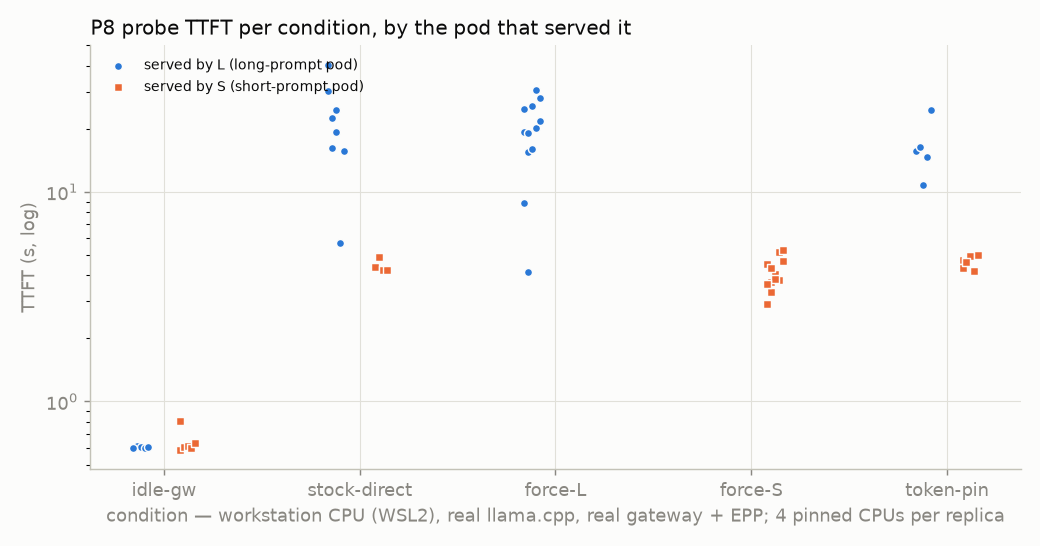
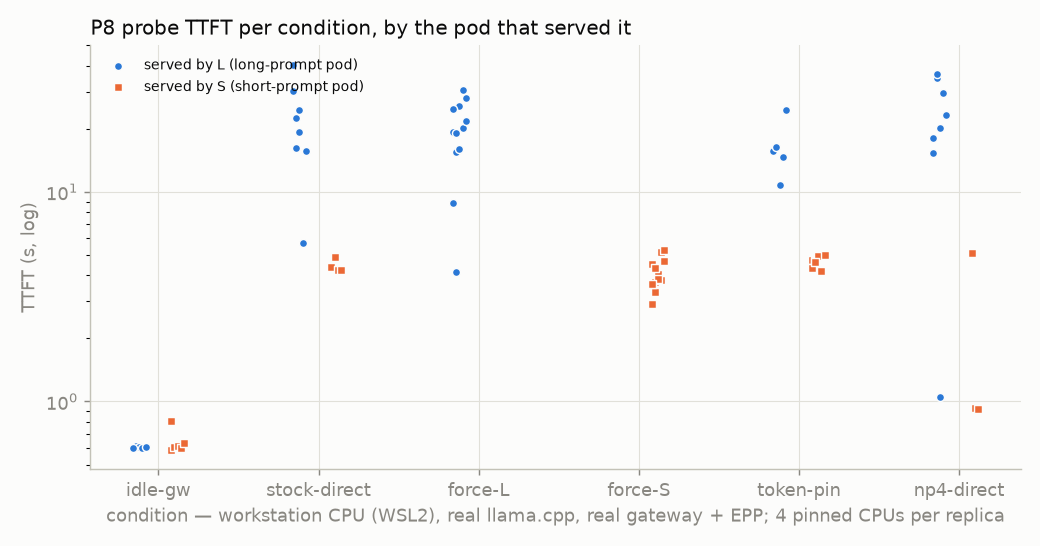
P8 on CPU: results write-up (interference, comparison, does-not-show, revert), charts, RESULTS rows, GAPS P8, scripts README

diff --git a/benchmarks/results/probes/p8_cpu_pinned.md b/benchmarks/results/probes/p8_cpu_pinned.md
@@ -8,7 +8,20 @@ ones (S), which pod does the stock EPP pick for a short probe, and what does the
 token-load-scorer. And how much do two replicas on one CPU slow each other down, unpinned vs pinned by the kubelet
 static CPU manager?
 
-Status: in progress. Sections are filled in the order they were run; every prediction was written before its run.
+Status: done 2026-10-23 (09:36–11:17 EDT); cluster reverted to policy `none` (see [Revert](#revert)). Sections are in
+run order; every prediction was written into this file before its run and is left as written.
+
+**Headlines**
+- **Stock EPP, real engines:** 8 of 12 probes went to the long-prompt replica (TTFT p50 20.9 s there vs 4.3 s on the
+  short-prompt replica). All 5 probes that saw S's deferred request went to L; the 7 where llama.cpp's queue gauge
+  showed no deferred request were random tie-breaks (3 L / 4 S). Forced, the L pick costs +15.85 s TTFT p50
+  (19.80 vs 3.94 s).
+- **token-load-scorer on:** 5 / 12 to L. It breaks every tie toward S (7 / 7), but loses to the queue scorer whenever
+  S's deferred request is visible (5 / 5 to L), because it counts a 3,056-token prompt as 960 tokens (bytes/4,
+  rounded to 64).
+- **Pinning did not remove the replica-to-replica slowdown:** a probe on an idle replica pays +36 % / +48 % TTFT p50
+  when the other replica is busy unpinned, and +44 % / +49 % pinned to disjoint full cores. What remains (L3, memory
+  bandwidth, WSL2 vCPU placement, turbo) could not be separated here.
 
 ## Task 0 — baseline and topology (2026-10-23, no changes)
 
@@ -276,3 +289,79 @@ max-score picker's random tie-break, not a preference. Gateway log = EPP log 12 
 a free slot on L did not make the probe fast. 8 of the 9 probes on L had TTFT 15.3–36.5 s, and one had 1.05 s.
 Decode on L p50 was 8.9 tok/s. So in b11146 the probe's prompt waited behind the long prefills, not only behind slots.
 This is measured, but the scheduling mechanism inside llama.cpp was not checked. Host busy 8.78 CPUs; `nr_throttled` delta 0.
+
+## Interference: unpinned vs pinned
+
+Direct to pod, not routed through the EPP. Probe TTFT p50 (s), n = 12 each; p50 / p95 linear interpolation
+(`benchmarks/analyze.py --p8cpu` → [p8_cpu/summary.md](p8_cpu/summary.md)).
+
+| probe on | alone, unpinned | neighbour busy, unpinned | penalty | alone, pinned | neighbour busy, pinned | penalty |
+|---|---|---|---|---|---|---|
+| S (neighbour: 2 long prompts) | 0.592 | 0.808 | +0.216 s (+36 %) | 0.602 | 0.869 | +0.267 s (+44 %) |
+| L (neighbour: 3 short prompts) | 0.587 | 0.871 | +0.284 s (+48 %) | 0.600 | 0.894 | +0.294 s (+49 %) |
+| decode p50, S / L probe (tok/s) | 56.4 / 57.3 | 49.9 / 46.9 | | 55.2 / 55.2 | 48.6 / 48.1 | |
+
+![interference](p8_cpu/charts/p8cpu_interference.png)
+
+**How much pinning removed: none measurable.** Neither p50 penalty shrank. Pinned p95/max are tighter on the alone
+rows (L alone max 0.623 s vs 0.777 s unpinned), but at n = 12 that is one probe. What can and can't be separated here:
+- *Same logical CPU / SMT sibling sharing between the two pods:* removed by pinning (disjoint full cores, verified), so
+  it was not the cause.
+- *CFS throttling:* ruled out (no quota on the pinned pods, `nr_throttled` 0 throughout).
+- *Shared pool saturation:* ruled out for the routed path (gateway + EPP ≤ 0.07 CPU; host busy ≤ 8.8 of 16).
+- *Shared L3, memory bandwidth, package power / turbo frequency, Hyper-V placement of the guest vCPUs:* **not
+  separable on this setup.** The guest can't read MSRs or host scheduling, and WSL2's sibling pairs are not a hardware
+  guarantee. k3s-server and containerd were not restricted to the shared pool (0-15).
+
+## P8 summary (Build 4 format) and comparison
+
+| condition | label | n | picks long-pod / short-pod | probe TTFT p50 / max (s) | TTFT p50 on long / short pod (s) | e2e p50 (s) |
+|---|---|---|---|---|---|---|
+| idle | CPU pinned, routed | 12 | 6 / 6 | 0.606 / 0.808 | 0.604 / 0.609 | 1.18 |
+| stock / load direct | CPU pinned, routed | 12 | **8 / 4** | 15.903 / 40.480 | 20.921 / 4.330 | 29.55 |
+| stock, forced to long pod | CPU pinned, direct to pod | 12 | 12 / 0 | 19.795 / 30.527 | 19.795 / — | 33.65 |
+| stock, forced to short pod | CPU pinned, direct to pod | 12 | 0 / 12 | 3.944 / 5.284 | — / 3.944 | 6.00 |
+| token-load / load via gateway (pinned per pod) | CPU pinned, routed | 12 | **5 / 7** | 4.967 / 24.547 | 15.658 / 4.683 | 7.26 |
+| parallel 4, stock / load direct | CPU pinned, routed | 12 | 9 / 3 (all ties) | 19.126 / 36.458 | 23.280 / 0.933 | 31.81 |
+
+![P8 TTFT](p8_cpu/charts/p8cpu_ttft.png)
+
+| source | label | stock: picks to long pod | token-load: picks to long pod | cost of the long pick (TTFT p50) |
+|---|---|---|---|---|
+| Build 4 (`deploy/gateway/GAPS.md` P8) | SIMULATED, routed by the real EPP | 16 / 16 (direct 8 / 8, pin 8 / 8) | 0 / 8 (load via gateway), 8 / 8 (load direct) | 7.75 s vs 0.53 s |
+| Build 11, mns2 ([t4/p8_t4x2.md](../t4/p8_t4x2.md)) | Kaggle 2×T4, real vLLM; picks **computed offline**, routing not exercised | 21 / 24 | 23 / 24 | see that file |
+| this run | workstation CPU (WSL2), real llama.cpp, **real gateway + EPP**; 4 pinned CPUs per replica | **8 / 12** | **5 / 12** | 20.92 s vs 4.33 s (as picked); 19.80 s vs 3.94 s (forced) |
+
+Why this run differs from both: the sim's and vLLM's waiting gauge held S's queued request steadily. llama.cpp's
+`requests_deferred` showed it at only 5 of 12 decisions, so the queue scorer often tied. When it didn't tie, the stock
+EPP and the token-load EPP both picked L every time (10 / 10 across conditions 2 and 4).
+
+## Does NOT show
+
+- One node, one WSL2 guest: guest vCPUs are not pinned to host cores; "pinned" = guest vCPUs only.
+- Qwen2.5-0.5B Q4_K_M on 4 CPUs per replica, b11146: absolute TTFTs (0.6 s idle, ~20 s behind long prompts) are this
+  model on this CPU. They are not GPU numbers and not big-model numbers.
+- llama.cpp exports no KV signal: the kv scorer tied in every decision (GAPS.md P4). A KV-aware engine could change
+  stock picks.
+- `requests_deferred` sampling: how often the EPP sees S's deferred request depends on its scrape timing and on llama.cpp
+  updating the gauge between batches. The 5 / 12 split is this workload's, not a constant.
+- Single EPP replica: the token-load scorer counts only what this replica dispatched (GAPS.md P8 "remaining gap");
+  with load sent direct it would see nothing.
+- Single client process (asyncio, one host): background and probes share one event loop; probes are sequential.
+- n = 12 per condition, 2 blocks with roles swapped; no confidence intervals computed.
+- The parallel-4 split (9 / 3) is a random tie-break at n = 12, not a preference.
+
+## Revert
+
+`make cpu-pin-off` (run by the user, sudo, ~11:15 EDT) restored `/etc/rancher/k3s/config.yaml` (sha256 `3609cf7f…`,
+= the original) and removed the static `cpu_manager_state`. Read back at 11:16–11:17:
+- configz `cpuManagerPolicy: none`, options none, reserved none; journal `cpu_manager.go:235 "Starting" policy="none"`
+  11:15:59; allocatable CPU 16.
+- `deploy/release.sh upgrade k3s` with no overlays (revision 39): pods back to the original template (hash
+  `5d577dcf66`), Burstable, `Cpus_allowed_list` 0-15. Release values = the pre-run backup except the new chart key
+  `llamacpp.initResources: {}` (default, renders nothing).
+- `paused-replicas` annotation removed from `inf-llamacpp` (KEDA owns replicas again; it was not paused before).
+  `inf-vllm-sim` still paused at 2, as before. Sim pods were never scaled.
+- sim-pool and llamacpp-pool EPPs: ConfigMap data, helm values and container args **byte-identical** to the backups
+  in `p8_cpu/backup/` (sim-pool still on `token-load.yaml`, as found).
+- `helm test inf` 3/3 Succeeded; one request per pool: cpu 200 (0.173 s), sim 200 (0.064 s).

diff --git a/deploy/gateway/GAPS.md b/deploy/gateway/GAPS.md
@@ -16,7 +16,7 @@ does and does not do, tested on the k3s lab (single node `ravi-home`, ns `infere
 | P5 | Pool choice by prompt size / SLO | header only | design below |
 | P6 | Admission / scale-from-zero | default: engine queues, gateway doesn't. EPP flow control (experimental) holds requests at 0 replicas and exports a queue KEDA can activate on; agentgateway cuts a held request at 10 s | works on a scratch pool, [autoscaling](../../autoscaling/README.md#scale-from-zero-gapsmd-p6) |
 | P7 | Gateway pod killed mid-stream | graceful delete drains the stream; hard kill cuts it, slot freed ~2.5 s. 1 replica: ~1 s of refused connections; **2 replicas + PDB: 0 failed new requests**, the killed pod's stream is still lost | 2 replicas in chart; node is still a SPOF |
-| P8 | Size-blind routing (few long vs many short prompts) | **stock EPP picks the long-prompt pod 16/16 (TTFT p50 7.75 s vs 0.53 s on the other pod)**; upstream `token-load-scorer` fixes it when the EPP dispatched the load (8/8 short pod, 0.56 s); blind to load it didn't dispatch (SIMULATED) | [ADR 0003](../../docs/adr/0003-token-aware-scorer.md) |
+| P8 | Size-blind routing (few long vs many short prompts) | **stock EPP picks the long-prompt pod 16/16 (TTFT p50 7.75 s vs 0.53 s on the other pod)**; upstream `token-load-scorer` fixes it when the EPP dispatched the load (8/8 short pod, 0.56 s); blind to load it didn't dispatch (SIMULATED). **Real llama.cpp behind the real gateway + EPP: stock 8 / 12 to the long-prompt pod (20.9 s vs 4.3 s TTFT p50), token-load 5 / 12: bytes/4 counts a 3,056-token prompt as 960** | [ADR 0003](../../docs/adr/0003-token-aware-scorer.md), [p8_cpu_pinned.md](../../benchmarks/results/probes/p8_cpu_pinned.md) |
 | P9 | Burst inside one EPP metrics refresh | no 8/0 herding; per-run split up to 7/1 vs always 4/4 when spaced (sim-pool, SIMULATED) | see P9 |
 
 ---
@@ -276,9 +276,18 @@ With threshold 8192 and weight 4 the token scores were 0 (long pod) vs 0.890625 
 
 **Remaining gap.** The scorer counts only what this EPP replica dispatched: load sent directly to pods, by other EPP replicas or after an EPP
 restart is invisible (`token-load / direct` is unchanged, as predicted). Token counts are bytes/4 estimates (about +20% on the probe prompts). Leaked entries (client gone before first token) live ≤5 min.
-llamacpp-pool is untouched. No real engine tested: the llama.cpp / T4 behaviour is unproven.
+llamacpp-pool is untouched by default (`make epp-cpu-token-on` / `-off` switch it for experiments). Real engines: see below.
 
 **Real engines (Kaggle 2×T4, real engines; routing not exercised):** [benchmarks/results/t4/p8_t4x2.md](../../benchmarks/results/t4/p8_t4x2.md), run 2. With vLLM defaults nothing queues, and the stock profile (computed offline from real gauges) leans to the short-prompt replica (24 / 24, kv scorer only, margin 0.06). A probe forced onto the long-prompt replica pays +2.17 s median TTFT (CI 0.38–4.05). With `--max-num-seqs 2` (the sim's slots) the stock profile picks the long-prompt replica 21 / 24, and the token-load scorer (bytes/4 estimate) still picks it 23 / 24.
+
+**Real llama.cpp behind the real gateway + EPP (workstation CPU, WSL2; 2 × b11146, 4 pinned CPUs each, 2 slots):**
+[benchmarks/results/probes/p8_cpu_pinned.md](../../benchmarks/results/probes/p8_cpu_pinned.md) (2026-10-23). Stock profile: **8 / 12** probes
+to the long-prompt pod, TTFT p50 20.9 s there vs 4.3 s on the short-prompt pod (forced: 19.8 vs 3.9 s). The 5 decisions where
+S's deferred request was visible all went to L. In the other 7, llama.cpp's `requests_deferred` read 0, so the queue scorer tied and the
+picker chose at random. With token-load-scorer on and load through the gateway: **5 / 12** to L. It wins every tie for S (7 / 7)
+but still loses to the queue scorer when S's queue is visible (5 / 5 to L): the producer's estimate is 960 tokens for a 3,056-token
+prompt (bytes/4, logged `tokenLoad`), so L's two long prompts weigh 1,920 instead of ~6,100. Fix direction: a real token count
+(tokenizer-backed estimate) for llama.cpp pools; a calibrated bytes-per-token factor would do for a single model. Not built here.
 
 **Overhead (SIMULATED, n=100 sequential, `scripts/probe_epp_overhead.py`).** Client p50 35.5 ms off / 39.2 ms on (stdev ~13 ms: within noise); EPP
 `scheduler_e2e_duration` mean 0.032 ms off / 0.112 ms on. **Regression:** `probe_p1_saturation.py` with the plugin on: 20/20 to the idle pod.

diff --git a/RESULTS.md b/RESULTS.md
@@ -75,6 +75,10 @@ Appended to RESULTS.md by `benchmarks/analyze.py` (links are relative to the rep
 | gateway | P7 gateway pod hard-killed, 2 replicas + PDB | 0 failed new requests; the killed pod's in-flight stream is lost; replacement Ready 2.8–3.8 s | workstation CPU | [GAPS.md P7](deploy/gateway/GAPS.md) |
 | gateway | P8 size-blind routing: few long vs many short prompts, stock EPP | 8 / 8 probes to the long-prompt pod, TTFT p50 7.75 s (predicted ~7.7 s) vs 0.53 s on the other pod | SIMULATED | [GAPS.md P8](deploy/gateway/GAPS.md#p8--is-the-epp-size-blind) |
 | gateway | P8 with upstream `token-load-scorer` tuned (threshold 8192, weight 4) | 0 / 8 to the long-prompt pod, TTFT p50 0.56 s; P1 still 20 / 20; scheduler 0.032 → 0.112 ms, client p50 change within noise | SIMULATED | [GAPS.md P8](deploy/gateway/GAPS.md#p8--is-the-epp-size-blind), [ADR 0003](docs/adr/0003-token-aware-scorer.md) |
+| gateway | P8 on real llama.cpp, stock EPP (2 × b11146, 2 slots each, L = 2 long / S = 3 short) | 8 / 12 probes to the long-prompt replica, TTFT p50 20.92 s there vs 4.33 s on the other; all 5 decisions that saw S's deferred request went to L, the other 7 were queue ties ([raw](benchmarks/results/probes/p8_cpu/20261023-142326-stock-direct.jsonl)) | workstation CPU, real gateway + EPP | [p8_cpu_pinned.md](benchmarks/results/probes/p8_cpu_pinned.md) |
+| gateway | P8 on real llama.cpp, cost of the long-replica pick (probe forced, direct to pod) | TTFT p50 19.80 s on L vs 3.94 s on S (+15.85 s), n = 12 each ([L](benchmarks/results/probes/p8_cpu/20261023-143413-force-L.jsonl), [S](benchmarks/results/probes/p8_cpu/20261023-144651-force-S.jsonl)) | workstation CPU, direct to pod | [p8_cpu_pinned.md](benchmarks/results/probes/p8_cpu_pinned.md) |
+| gateway | P8 on real llama.cpp, upstream `token-load-scorer` on (threshold 8192, weight 4), load via the gateway | 5 / 12 to the long-prompt replica: ties broken to S 7 / 7, but queue-split decisions still L 5 / 5; the scorer counts a 3,056-token prompt as 960 ([raw](benchmarks/results/probes/p8_cpu/20261023-145402-token-pin.jsonl)) | workstation CPU, real gateway + EPP | [p8_cpu_pinned.md](benchmarks/results/probes/p8_cpu_pinned.md) |
+| node | Replica-to-replica slowdown on one CPU, unpinned vs kubelet static CPU manager (4 exclusive CPUs = 2 full cores per pod) | probe TTFT p50 with the other replica busy: +36 % / +48 % unpinned, +44 % / +49 % pinned: pinning removed none of it; no CFS quota on the pinned pods ([unpinned](benchmarks/results/probes/p8_cpu/20261023-134954-u-S-Lbusy.jsonl), [pinned](benchmarks/results/probes/p8_cpu/20261023-141159-p-S-Lbusy.jsonl)) | workstation CPU (WSL2), direct to pod | [p8_cpu_pinned.md](benchmarks/results/probes/p8_cpu_pinned.md) |
 | gateway | Gateway vs direct capacity ramp, quiet host, 3 runs per setting (2 sim pods, max-num-seqs 256) | ≤ 16 concurrent: gateway −2.7 to −4.7 % rps, p50 +4–11 ms, plugin on/off within spread, 0 errors; above 16 **not quotable: client-bound** (load generator at 0.97–1.00 core from 64) | SIMULATED | [GAPS.md capacity](deploy/gateway/GAPS.md#disconnect-and-capacity-follow-ups-2026-10-15) |
 | gateway | P9 burst of 8 inside one 50 ms EPP refresh | never 8 / 0; splits 4/4 … 7/1 (random tie-break); spaced control 4/4 every run | SIMULATED | [GAPS.md P9](deploy/gateway/GAPS.md#p9--burst-inside-one-epp-metrics-refresh) |
 | autoscaling | KEDA on queue depth, sim-pool, one cycle | 1 → 3 → 4 → 1 replicas; 1144 / 1144 ok; client TTFT p50 2,710 ms (1 replica) → 81–93 ms (4) | SIMULATED, n = 1 | [autoscaling/](autoscaling/README.md#one-full-cycle-per-pool-loadgenpy) |

diff --git a/benchmarks/results/lab_headlines.md b/benchmarks/results/lab_headlines.md
@@ -17,6 +17,10 @@ Appended to RESULTS.md by `benchmarks/analyze.py` (links are relative to the rep
 | gateway | P7 gateway pod hard-killed, 2 replicas + PDB | 0 failed new requests; the killed pod's in-flight stream is lost; replacement Ready 2.8–3.8 s | workstation CPU | [GAPS.md P7](deploy/gateway/GAPS.md) |
 | gateway | P8 size-blind routing: few long vs many short prompts, stock EPP | 8 / 8 probes to the long-prompt pod, TTFT p50 7.75 s (predicted ~7.7 s) vs 0.53 s on the other pod | SIMULATED | [GAPS.md P8](deploy/gateway/GAPS.md#p8--is-the-epp-size-blind) |
 | gateway | P8 with upstream `token-load-scorer` tuned (threshold 8192, weight 4) | 0 / 8 to the long-prompt pod, TTFT p50 0.56 s; P1 still 20 / 20; scheduler 0.032 → 0.112 ms, client p50 change within noise | SIMULATED | [GAPS.md P8](deploy/gateway/GAPS.md#p8--is-the-epp-size-blind), [ADR 0003](docs/adr/0003-token-aware-scorer.md) |
+| gateway | P8 on real llama.cpp, stock EPP (2 × b11146, 2 slots each, L = 2 long / S = 3 short) | 8 / 12 probes to the long-prompt replica, TTFT p50 20.92 s there vs 4.33 s on the other; all 5 decisions that saw S's deferred request went to L, the other 7 were queue ties ([raw](benchmarks/results/probes/p8_cpu/20261023-142326-stock-direct.jsonl)) | workstation CPU, real gateway + EPP | [p8_cpu_pinned.md](benchmarks/results/probes/p8_cpu_pinned.md) |
+| gateway | P8 on real llama.cpp, cost of the long-replica pick (probe forced, direct to pod) | TTFT p50 19.80 s on L vs 3.94 s on S (+15.85 s), n = 12 each ([L](benchmarks/results/probes/p8_cpu/20261023-143413-force-L.jsonl), [S](benchmarks/results/probes/p8_cpu/20261023-144651-force-S.jsonl)) | workstation CPU, direct to pod | [p8_cpu_pinned.md](benchmarks/results/probes/p8_cpu_pinned.md) |
+| gateway | P8 on real llama.cpp, upstream `token-load-scorer` on (threshold 8192, weight 4), load via the gateway | 5 / 12 to the long-prompt replica: ties broken to S 7 / 7, but queue-split decisions still L 5 / 5; the scorer counts a 3,056-token prompt as 960 ([raw](benchmarks/results/probes/p8_cpu/20261023-145402-token-pin.jsonl)) | workstation CPU, real gateway + EPP | [p8_cpu_pinned.md](benchmarks/results/probes/p8_cpu_pinned.md) |
+| node | Replica-to-replica slowdown on one CPU, unpinned vs kubelet static CPU manager (4 exclusive CPUs = 2 full cores per pod) | probe TTFT p50 with the other replica busy: +36 % / +48 % unpinned, +44 % / +49 % pinned: pinning removed none of it; no CFS quota on the pinned pods ([unpinned](benchmarks/results/probes/p8_cpu/20261023-134954-u-S-Lbusy.jsonl), [pinned](benchmarks/results/probes/p8_cpu/20261023-141159-p-S-Lbusy.jsonl)) | workstation CPU (WSL2), direct to pod | [p8_cpu_pinned.md](benchmarks/results/probes/p8_cpu_pinned.md) |
 | gateway | Gateway vs direct capacity ramp, quiet host, 3 runs per setting (2 sim pods, max-num-seqs 256) | ≤ 16 concurrent: gateway −2.7 to −4.7 % rps, p50 +4–11 ms, plugin on/off within spread, 0 errors; above 16 **not quotable: client-bound** (load generator at 0.97–1.00 core from 64) | SIMULATED | [GAPS.md capacity](deploy/gateway/GAPS.md#disconnect-and-capacity-follow-ups-2026-10-15) |
 | gateway | P9 burst of 8 inside one 50 ms EPP refresh | never 8 / 0; splits 4/4 … 7/1 (random tie-break); spaced control 4/4 every run | SIMULATED | [GAPS.md P9](deploy/gateway/GAPS.md#p9--burst-inside-one-epp-metrics-refresh) |
 | autoscaling | KEDA on queue depth, sim-pool, one cycle | 1 → 3 → 4 → 1 replicas; 1144 / 1144 ok; client TTFT p50 2,710 ms (1 replica) → 81–93 ms (4) | SIMULATED, n = 1 | [autoscaling/](autoscaling/README.md#one-full-cycle-per-pool-loadgenpy) |

diff --git a/scripts/README.md b/scripts/README.md
@@ -19,6 +19,7 @@ and gateway/EPP probes (findings in [`deploy/gateway/GAPS.md`](../deploy/gateway
 | `probe_p7_gateway_kill.py` | **P7** what an in-flight stream, the llama.cpp slot and new requests see when the gateway pod is deleted. With >1 replica it deletes only the stream's pod (`--target all` = every pod); `--ping-window 10` keeps pinging 10 s | `make probe-p7 [ARGS="--grace-period 1 --ping-window 10"]` | kubectl (**deletes an agentgateway pod**; the Deployment recreates it), pod IPs from the k3s host |
 | `probe_burst.py` | **P9** do N requests inside one EPP metrics refresh (50 ms) herd onto one sim pod, vs a spaced control (SIMULATED) | `make probe-burst [ARGS="--repeats 10"]` | kubectl (gateway logs), sim pod IPs from the k3s host, ≥2 sim pods |
 | `probe_p8_size_blind.py` | **P8** is the EPP size-blind: few long vs many short prompts on 2 sim pods, probe pick + TTFT (SIMULATED). Needs the scratch pool `deploy/gateway/p8/` | `make probe-p8 ARGS="--label off-pin --load-path gateway-pin --runs 8"` (`--force A\|B` = counterfactual) | kubectl, port-forwards, p8-pool EPP at `-v 4` |
+| `probe_p8_size_blind.py --pool cpu` | **P8 on real llama.cpp** (llamacpp-pool, 2 replicas, real gateway + EPP): interference sets (`--probe S --load-path direct --load-only L`), routed conditions (`--probe gateway`), forced (`--probe L\|S`); load held per block, roles swap. Results: `benchmarks/results/probes/p8_cpu_pinned.md` | `make probe-p8 ARGS="--pool cpu --label stock-direct --probe gateway --load-path direct"` | kubectl, pod IPs reachable from the node, llamacpp-pool EPP at `-v 4` (`make epp-cpu-token-off EPP_V=4`) |
 | `probe_p8_t4x2.py` | **P8 on real GPUs**: one vLLM per T4 on a Kaggle 2×T4 box, closed-loop long (L) vs short (S) background, probes forced to L or S, per-probe TTFT/ITL + pre-send /metrics of both servers; `--analyze` rebuilds tables and offline router scores (Kaggle 2×T4, real engines; routing not exercised) | `make t4-run STAGE=p8x2`; offline `python scripts/probe_p8_t4x2.py --analyze benchmarks/results/t4/<run>_p8x2`; tests `pytest scripts/tests/test_probe_p8_t4x2.py` | Kaggle (runs inside stage `p8x2`); offline: httpx |
 | `probe_epp_overhead.py` | EPP hop cost: n sequential requests via the gateway, client p50/p99 + EPP scheduler histogram (SIMULATED) | `.venv/bin/python scripts/probe_epp_overhead.py --label on\|off` | kubectl pod proxy to EPP :9090 |
 | `probe_capacity.py` | concurrency ramp 1→256, gateway vs direct to sim pods (needs max-num-seqs 256 on `sim-p8`); records load-generator CPU per level (`client_cpu`, 1.0 = one core) and gateway/EPP `kubectl top` | `.venv/bin/python scripts/probe_capacity.py --label on` | kubectl top, pod IPs from the k3s host |

diff --git a/benchmarks/results/probes/p8_cpu/summary.md b/benchmarks/results/probes/p8_cpu/summary.md
@@ -32,6 +32,7 @@ Neighbour penalty (TTFT p50 busy − alone):
 | stock, probe forced to L (direct) | no (direct) | 12 | 12 / 0 | 19.795 / 30.527 | 19.795 / — | 33.65 | 12 / 12 | [20261023-143413-force-L.jsonl](../../../../benchmarks/results/probes/p8_cpu/20261023-143413-force-L.jsonl) |
 | stock, probe forced to S (direct) | no (direct) | 12 | 0 / 12 | 3.944 / 5.284 | — / 3.944 | 6.00 | 10 / 12 | [20261023-144651-force-S.jsonl](../../../../benchmarks/results/probes/p8_cpu/20261023-144651-force-S.jsonl) |
 | token-load on, load through the gateway | yes | 12 | 5 / 7 | 4.967 / 24.547 | 15.658 / 4.683 | 7.26 | 12 / 12 | [20261023-145402-token-pin.jsonl](../../../../benchmarks/results/probes/p8_cpu/20261023-145402-token-pin.jsonl) |
+| parallel 4, stock EPP, load direct | yes | 12 | 9 / 3 | 19.126 / 36.458 | 23.280 / 0.933 | 31.81 | 10 / 12 | [20261023-150111-np4-direct.jsonl](../../../../benchmarks/results/probes/p8_cpu/20261023-150111-np4-direct.jsonl) |
 
 Charts: [p8cpu_interference.png](charts/p8cpu_interference.png), [p8cpu_ttft.png](charts/p8cpu_ttft.png)
 
